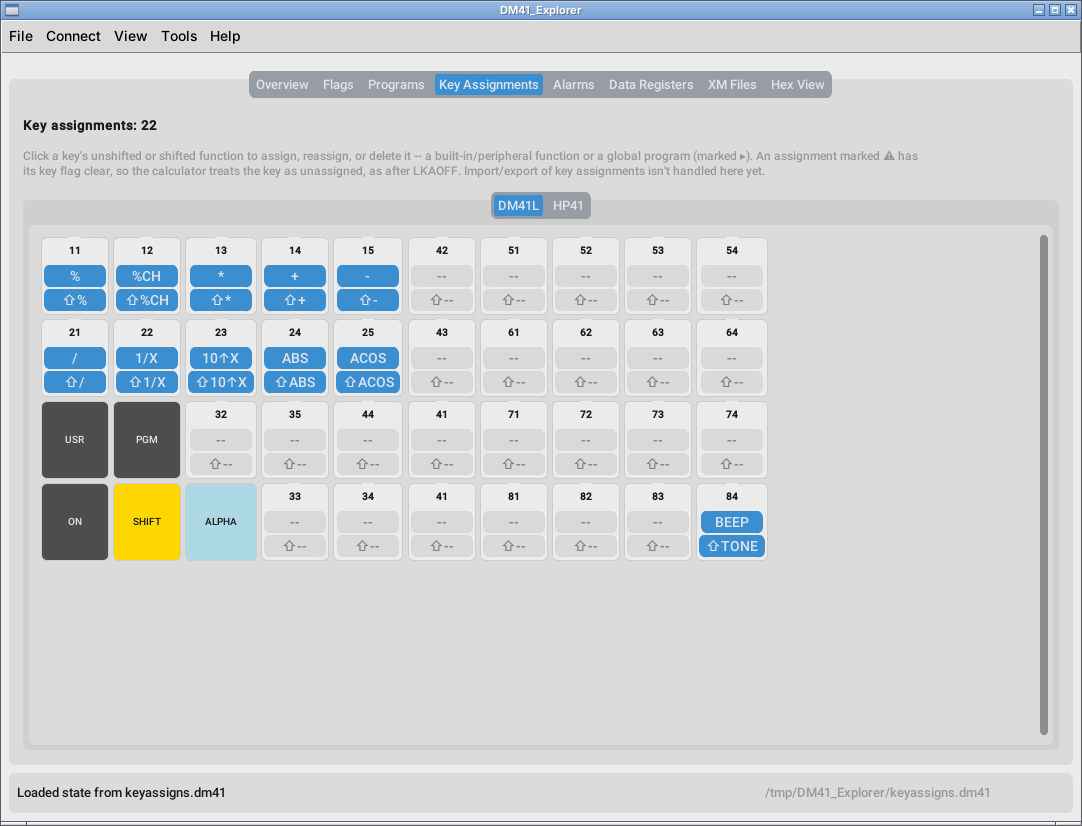
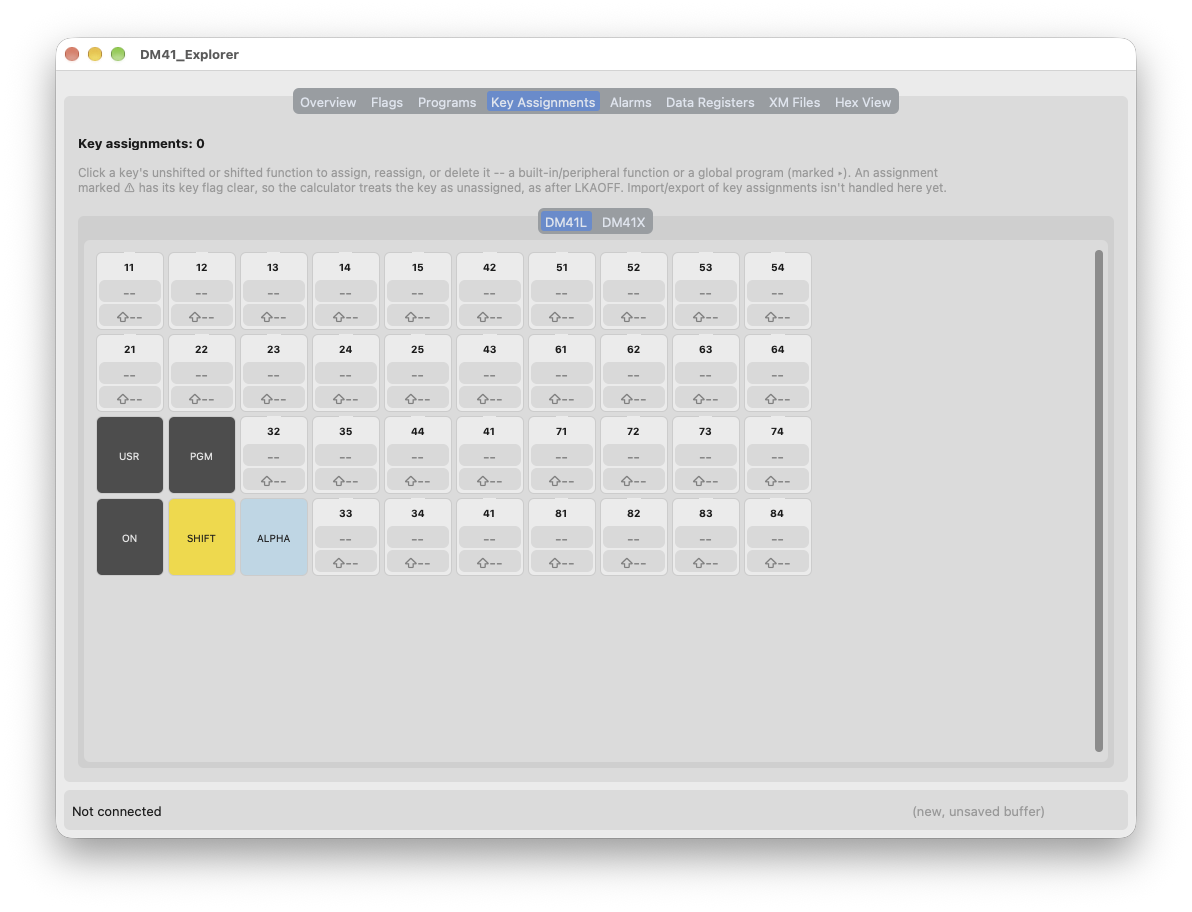
Updated the readme.

diff --git a/README.md b/README.md
@@ -31,92 +31,111 @@ serial console.
 
 ## Using DM41_Explorer
 
-### Launching the app for the first time
+DM41_Explorer supports two modes of operation: Serially connected (for the
+DM41L) or disk-based (for the DM41X or for editing saved state files). 
 
-DM41_Explorer starts offline: it never touches a serial port until you ask it
-to. You can work on memory state files without a calculator at all, or connect
-to your DM41L whenever you like.
+## Connecting to a DM41L
 
-To prepare your DM41L for connection, you must enable the serial console, which
-is activated by turning the calculator off, then pressing \<ON\> and "C" at the
-same time, then releasing them. 
+A serial connection is necessary only for data transfer to or from the DM41L.
+To configure the device for connectivity, power the calculator off and then
+press and release the “ON” and “C” keys simultaneously to enable the serial
+console. 
 
-Once your calculator is in SERIAL CONSOLE mode and connected to your computer
-with a USB cable, choose Connect > Connect / Reconnect... (Ctrl+K, or Cmd+K on
-a Mac). You will see a dialog box similar to this one:
+Once the calculator is set to SERIAL CONSOLE mode and a USB connection is
+established with your computer, choose “Connect / Reconnect…” from the
+“Connect” menu (Ctrl+K or Cmd+K on macOS). A dialog box resembling the
+following will be displayed:
 
 ![Connection](resources/screenshots/connection.png)
 
-Select the appropriate serial port and click connect. Once connected, the
-calculator's memory is read in (unless you already have a state loaded or
-modified) and you will see it in the Overview tab.
+Choose the appropriate serial port and press the Connect button. Upon
+connection, the calculator’s memory is retrieved—provided no state has been
+previously loaded or modified—and displayed in the Overview tab.  
+
+When connecting to the DM41L, DM41_Explorer loads the current memory contents
+if no state has been opened or altered. To reload a state from the calculator
+at a later time, use the Connect menu.
 
 #### Which serial port do I use? 
 
-Good question. You may have to do some trial-and-error to figure this out. If
-you're not sure if the correct serial port is even listed, try clicking the
-"Rescan" button. Once you've successfully connected, however, DM41_Explorer
-will save the port you used and preselect it in this dialog the next time.
+If you are unsure which serial port to select, follow these steps to identify
+the correct one:
 
-#### Launching without the DM41L
+1. Disconnect the calculator.
+2. Click the "Rescan" button.
+3. Note the available serial ports.
+4. Reconnect the calculator.
+5. Click "Rescan" again.
+6. Identify the newly listed serial port.
 
-If you want to work on an existing memory state file (or create a new one),
-just open it from the File menu; there is nothing to cancel. If, later, you
-decide to connect to the DM41L, go to the Connect menu and select
-Connect / Reconnect...
+Once a successful connection is established, DM41_Explorer will automatically
+save and preselect this port for future sessions.
 
-#### Loading and saving memory state files
 
-When you connect to the DM41L, DM41_Explorer loads the current contents of the
-calculator's memory if you have not already opened or changed a state. To load
-a state from the calculator again later, use the Connect menu.
+## Working in Disk-Based Mode
 
-To write a memory state to the calculator, the Connect menu has you covered
-there, too.
+The DM41X uses a disk-based USB interface and supports the storage of multiple
+state files. To generate a state file on the DM41X, press SETUP, select “File,”
+and choose “Save DM41 state file.” This procedure must be completed before
+DM41_Explorer can load the calculator’s state.  
 
-The File menu contains options to load an existing memory file from disk, to
-save the currently loaded state, and for creating a blank one to work on.
+Once a state file is stored on the device, connect the DM41X to your computer,
+press CST, and select “USB Disk” from the calculator menu; the unit will appear
+as a removable drive.  
+
+To load a state file into DM41_Explorer, select “Load State” from the “File”
+menu. To transfer a state file back to the calculator, use the “Save State”
+command. Eject the disk from the computer when you are finished.
+
+The DM41X can store multiple state files. To load a particular state file onto
+the calculator, eject the device from the computer, press SETUP, select “File,”
+and choose “Load DM41 State File.”  
+
+Additionally, the “File” menu may be used to load and save state files from
+other directories on your computer.
 
 ### Overview Tab
 
 ![Overview](resources/screenshots/overview.png)
 
-The Overview tab shows a quick summary of either the state of the DM41L or the
-currently loaded memory state. It is almost entirely read-only, except for the
-address of the R00 register, which you can adjust if you want to experiment
-with synthetic programming.
+The Overview tab shows a quick summary of either the state of the currently
+loaded memory state. It is almost entirely read-only, except for the address of
+the R00 register, which you can adjust if you want to experiment with synthetic
+programming.
 
 ### Flags Tab
 
 ![Flags](resources/screenshots/flags_view.png)
 
 A complete list of the all the user and system flags and their current values.
-Please note that many of the system flags are used by the DM41L itself during
-normal operation, while others pertain to peripherals and will have no effect on the
-DM41L. Your Mileage May Vary.
+Some of the flags are available for use by HP41 applications, some control
+system behavior, and others pertain to peripherals and will have no effect on
+the DM41L. Some flags are automatically reset each time the calculator is
+turned on.
 
 ### Programs Tab
 
 ![Programs](resources/screenshots/program_view.png) 
 
-The programs tab shows a list of the apps currently loaded into the DM41L's
-program memory. From this view you can export and remove loaded programs, and
-import new ones.
+The programs tab shows a list of the apps currently loaded into the program
+memory portion of the loaded state file. From this view you can export and
+remove loaded programs, and import new ones. Programs can be imported or
+exported in RAW, TXT, or DAT format. DM41 Explorer also supports "PPC" format
+which is the same as DAT format but with line breaks.
 
 ### Key Assignments Tab
 
 ![Key Assigns - DM41L layout](resources/screenshots/key_assigns_dm41l.png)
 
-![Key Assigns - HP41 layout](resources/screenshots/key_assigns_hp41.png)
+![Key Assigns - DM41X layout](resources/screenshots/key_assigns_hp41.png)
 
 The Key Assignments tab allows you to view and edit the user key assignments in
 the loaded state. It has two sub-tabs: the first shows the keys in the DM41L
-layout, and the second in the original HP41 layout. Both show the same
-assignments, so an edit made on either one appears on the other. Clicking on a
-key will let you edit that key's current assignment - you can either select
-one of the built-in HP41CX functions, or one of the currently loaded programs,
-or enter in two hexadecimal bytes if you want to experiment with synthetic
-programming.
+layout, and the second in the DM41X layout. Both show the same assignments, so
+an edit made on either one appears on the other. Clicking on a key will let you
+edit that key's current assignment - you can either select one of the built-in
+HP41CX functions, or one of the currently loaded programs, or enter in two
+hexadecimal bytes if you want to experiment with synthetic programming.
 
 ### Data Registers Tab
 
@@ -145,9 +164,9 @@ region. It is useful for studying how HP41 memory is organized.
 
 ## Keyboard Shortcuts
 
-DM41_Explorer is menu-driven, and every shortcut below mirrors a menu item
-(or, for Export/Import, a tab's header button). `Ctrl` is used on Windows and
-Linux; macOS uses `Cmd` for the same shortcuts.
+DM41_Explorer is menu-driven, and every shortcut below mirrors a menu item (or,
+for Export/Import, a tab's header button). `Ctrl` is used on Windows and Linux;
+macOS uses `Cmd` for the same shortcuts.
 
 | Action | Windows / Linux | macOS |
 | --- | --- | --- |
@@ -173,7 +192,7 @@ a no-op.
 
 There are many markdown files in the [`docs`](https://github.com/mwheinz/DM41_Explorer/tree/main/docs) directory. These represent my
 research notes from developing this project. Hopefully they will be useful to
-you if you are curious about the internals of the HP41 and the DM41L emulator.
+you if you are curious about the internals of the HP41 and the DM41L/X emulator.
 
 Most of my notes are derived from 40 year old memories and classic HP41 texts
 like *Synthetic Programming* by Jonathan Wickes, supplemented by
@@ -246,15 +265,8 @@ these.
 ## Contributing
 
 Bug reports, feature requests, and pull requests are welcome — see
-[`CONTRIBUTING.md`](CONTRIBUTING.md) for how to get set up, run the
-tests, and what makes a good bug report or PR.
-
-## Known limitations
-
-- Alarms aren't decoded and cannot be altered yet.
-- Program memory is listed (names, END markers, raw chain distances) but
-  not decoded into actual instructions, and can't be created or edited
-  from this tool yet.
+[`CONTRIBUTING.md`](CONTRIBUTING.md) for how to get set up, run the tests, and
+what makes a good bug report or PR.
 
 ## Running the tests
 
